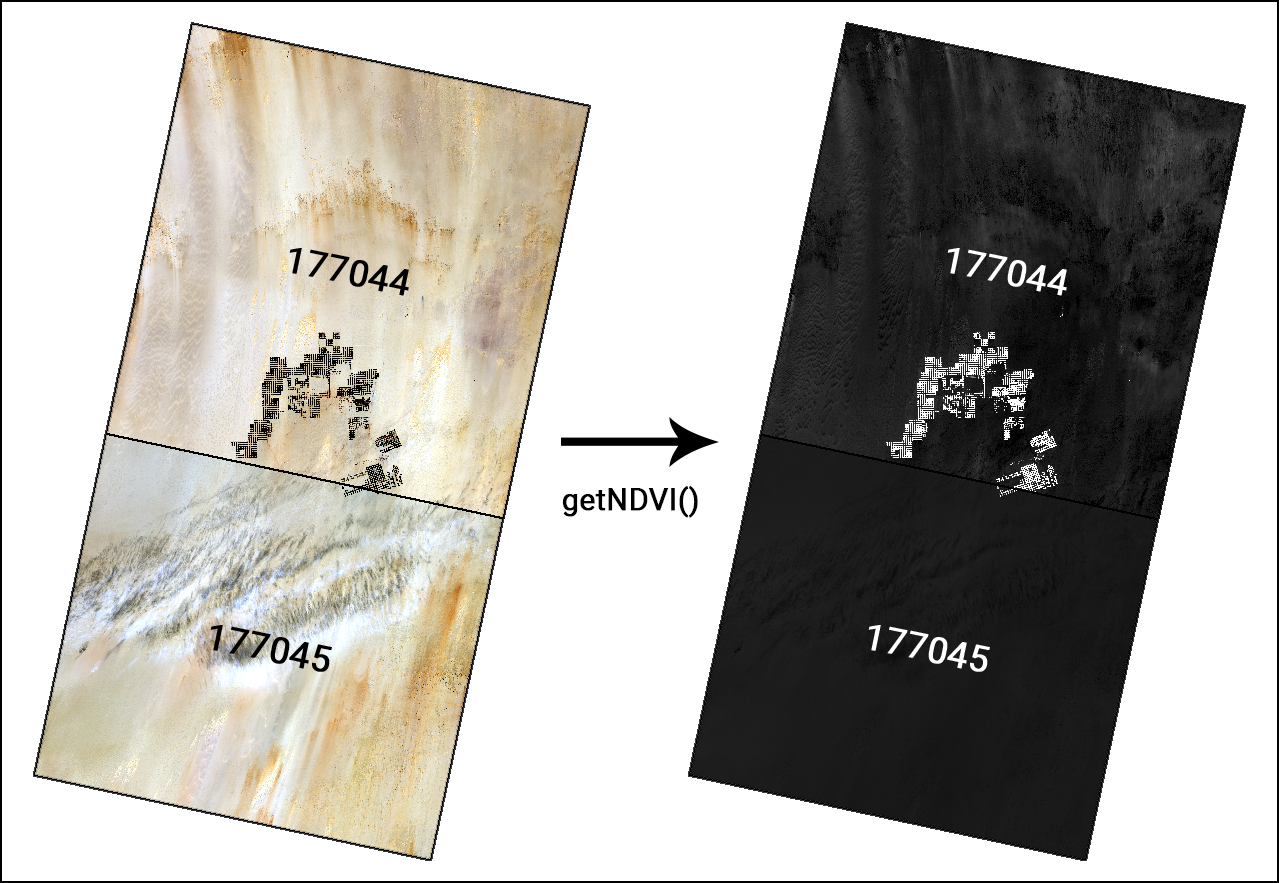
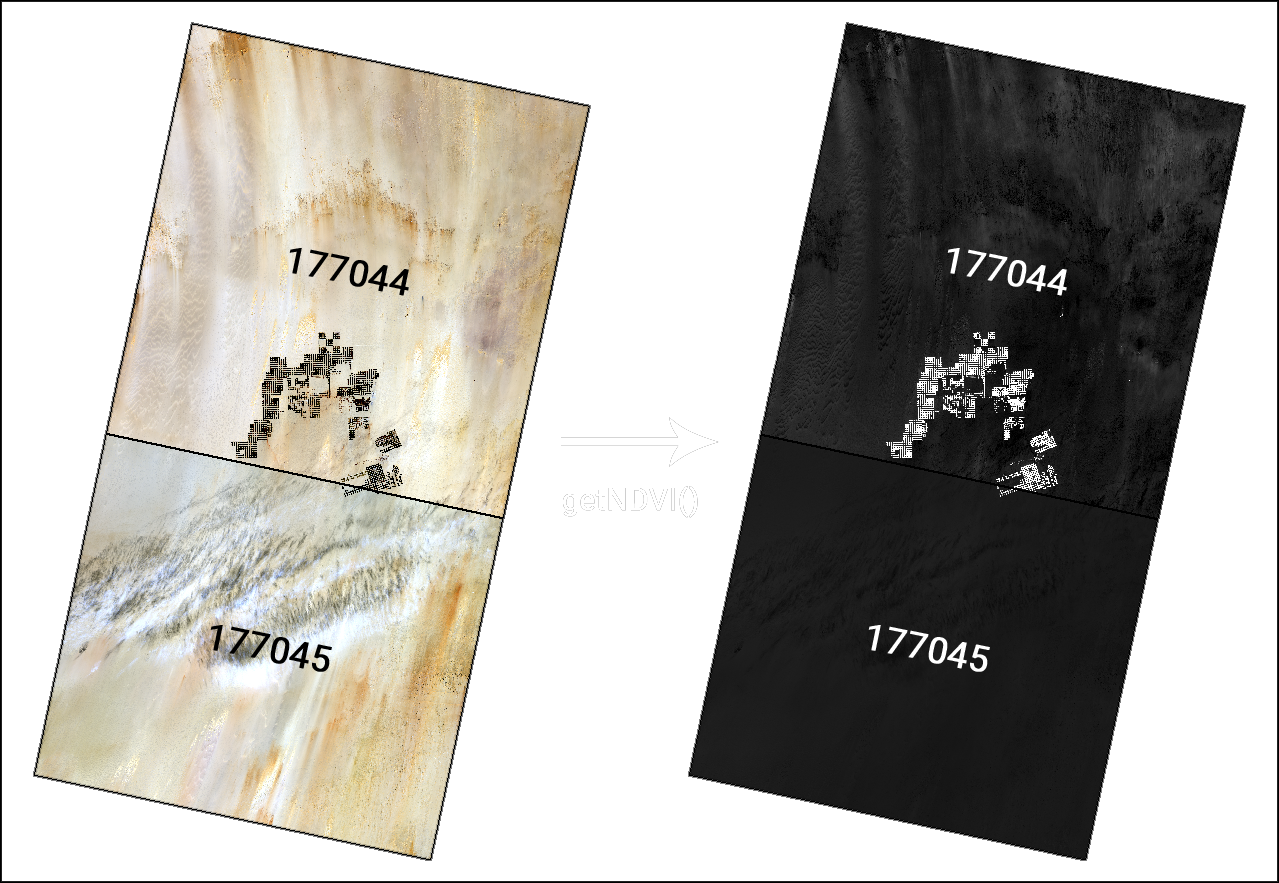
adjust readme - give project context

Changed region(s): [[0.4269, 0.4587, 0.5794, 0.5198], [0.4269, 0.5504, 0.5489, 0.581]]

diff --git a/README.md b/README.md
@@ -1,123 +1,112 @@
 LCquickVieweR
 ---
-The remote sensing R package `LCquickVieweR` makes land-use change visible by creating false color images. 
-The methodical approach is a combination of Image Differencing and Multi Temporal Stacking using NDVI.
-This way change is coded by color. All processing steps are automatized.
+`LCquickVieweR` is an R package that makes land-use/land-cover (LULC) change visible by producing false color composites from multi-date satellite imagery. It combines Image Differencing and Multi-Temporal NDVI Stacking to encode change as color — no manual classification required.
 
-At this stage [0.0.1] some functions are customized for my latest project, but can be adjusted easily.
-`LCquickVieweR` was built during my remote sensing major at University Würzburg.
+## Background
 
-<p align="center"><img width="50%" src="https://github.com/kluter/LCquickVieweR/blob/master/img/result1.gif"></p>
-<p align="center"><sub>Animation 1: LCquickVieweR final product.</sub></p>
+Developed as a seminar submission for the **[EAGLE MSc Program](https://eagle-science.org)**.
 
+The methodology was first applied in a BSc thesis in Physical Geography at **Goethe-Universität Frankfurt am Main**:
+
+> **Fernerkundliche Identifizierung und Analyse der Landnutzungsänderung im Umland von Taroudannt, Marokko**
+>
+> Institut für Physische Geographie · 2013  
+> Erstgutachter: Dr. Irene Marzolff
+
+That study documented large-scale LULC change driven by groundwater extraction for export-oriented fruit agriculture in the surroundings of Taroudannt, Morocco.
+
+## Study Area & Results
+
+The package is demonstrated on an agricultural region in **Egypt** (22°28'N 28°29'E), analyzed across seven consecutive periods between **1999 and 2018** using Landsat 5 and Landsat 8 imagery. The dominant pattern observed is rapid agricultural expansion sustained by groundwater extraction.
+
+<table>
+<tr>
+<td width="60%">
+<img width="100%" src="https://github.com/kluter/LCquickVieweR/blob/master/img/result1.gif">
+<br><sub>Animation 1: LCquickVieweR final product — Egypt study area, 1999–2018.</sub>
+</td>
+<td width="40%" valign="top">
+
+**Color Code**
+
+| Color | Meaning |
+|---|---|
+| Cyan | Vegetation gained |
+| Reddish | Vegetation lost |
+| Yellowish / Purple | Little or no change |
+
+Color intensity reflects NDVI magnitude in both time steps.
+
+</td>
+</tr>
+</table>
+
+<p align="center"><img width="50%" src="https://github.com/kluter/LCquickVieweR/blob/master/img/result2.gif"></p>
+<p align="center"><sub>Animation 2: LCquickVieweR final product — Egypt study area, 1999–2018.</sub></p>
 
 ## Installation
-Install `LCquickVieweR` directly from github by using `devtools`.
+Install `LCquickVieweR` directly from GitHub using `devtools`:
 ``` r
 devtools::install_github("kluter/LCquickVieweR")
 ```
 
-## Functions
-`LCquickVieweR` provides a small set of functions:
-
-Adjusting study area:
-* `mergeThis()` - [0.0.1] merges two tiles into a single image for every dataset in a committed directory. 
-Including more tiles is possible by adjusting the referenced `raster::mosaic()` function.
-* `subsetThis()` - crops every raster image in a committed directory to the extend of any shapefile.
-
-Image Differencing and Multi Temporal Stacking using NDVI:
-* `getNDVI()` - computes the NDVI for every Landsat5 and Landsat8 scene in a committed directory.
-    - `NDVI()` - basic ratio computation using Red & NIR bands, see [NDVI](https://en.wikipedia.org/wiki/Normalized_difference_vegetation_index). 
-    - `Landsat5_NDVI()` - looks for the right Landsat5 bands for NDVI computation.
-    - `Landsat8_NDVI()` - looks for the right Landsat8 bands for NDVI computation.
-* `getDeltaNDVI()` - creates image subtractions of every successive pair within a directory. The order of subtractions is the order of the committed directory.
-    - `deltaNDVI()` - raster calculation: `deltaNDVI()` subtracts NDVI datasets from each other. The prior dataset is subtracted from the later.
-* `stackTime()` - creates the final product by stacking the prior, later, and delta datasets into their respective RGB channels.
-
-Bonus functions that make RStudio life easier:
-
-* `packageChecker()` - takes a list of packageNames and checks it against the internal library. If a package is missing, it will download, install and activate it. If a package is already installed but old, it will be updated and activated. If a package is already installed, it will be activated.
-* `set.wd()`- setting a working directory by pasting a windows path directly, without changing any single \backslash.
-    - `backslashConverter()` - converts \ into /.
-
 ## Get Started
-A quick demonstration of what `LCquickVieweR` can do:
 
-Put all your downloaded satellite images into one folder. Up to this point the automatization works only for Landsat 5 and 8 scenes. Bands from other satellites need to be addressed manually.
+Put all downloaded Landsat scenes into one folder, then:
 
-Presetting:
 ``` r
-# Load packages
+# Load dependencies
 packages <- c("raster", "sp", "RStoolbox", "rgdal")
 LCquickVieweR::packageChecker(packages)
 
-# set your working directory to your sat-image folder
+# Set working directory (paste Windows path directly)
 set.wd()
 
-# create subfolders for temporal datasets and results
-directories <- c("result_NDVIs", "result_mosaic", "result_subset", "result_deltaNDVIs", "result_falseColor")
+# Create output folders
+directories <- c("result_NDVIs", "result_mosaic", "result_subset", 
+                 "result_deltaNDVIs", "result_falseColor")
 for(i in 1:length(directories)){
   dir.create(directories[i])
-  }
-  
-# create the main list of your working directory
+}
+
 dirList <- list.files()
 ```
 
-Main program:
 ``` r
-# creating NDVIs for all downloaded data
+# Compute NDVI for all scenes
 getNDVI(dirList)
 ```
 <p align="center"><img width="50%" src="https://github.com/kluter/LCquickVieweR/blob/master/img/img1.png"></p>
 <p align="center"><sub>Figure 1: Converting all datasets into NDVI datasets.</sub></p>
 
 ``` r
-# filtering for needed tiles
+# Mosaic tiles and crop to study area
 imageTile1 <- list.files("result_NDVIs/", pattern = "177044")
 imageTile2 <- list.files("result_NDVIs/", pattern = "177045")
-
-# combining tiles for full study area
 mergeThis(imageTile1, imageTile2)
 
-#--------------------------------------------------------------------------------#
-# loading extent of study area -> shp-file
 studyArea <- readOGR(dsn = "_vector_data", layer = "studyArea")
-# addressing all merged images
 allMosaics <- list.files("result_mosaic/")
-
-# creating subset from all mosaics
 subsetThis(allMosaics, studyArea)
 ```
 <p align="center"><img width="40%" src="https://github.com/kluter/LCquickVieweR/blob/master/img/img2.png"></p>
 <p align="center"><sub>Figure 2: Merged and cropped study area.</sub></p>
 
 ``` r
-# getting all subsets into a list
+# Compute delta NDVI and build final composite
 allSubsets <- list.files("result_subset/")
-
-# image differencing deltaNDVI()
 getDeltaNDVI(allSubsets)
 
-#--------------------------------------------------------------------------------#
-# collecting preprocessed datasets for final product
 delta <- list.files("result_deltaNDVIs/")
-ndvi <- list.files("result_subset/")
-
-# creating main land-use change product
+ndvi  <- list.files("result_subset/")
 stackTime(ndvi, delta)
 ```
 <p align="center"><img width="60%" src="https://github.com/kluter/LCquickVieweR/blob/master/img/img3.1.png"></p>
-<p align="center"><sub>Figure 3: Assembling the final product.</sub></p>
+<p align="center"><sub>Figure 3: Assembling the final composite.</sub></p>
 
-## colorCode
-Once the processing is done, your results will look pretty much like the scenes in the GIFs. Regardless of where that scene is from, the colorCode will still be the same:
+## Note
 
-* reddish colors: lost areas
-* cyan colors: gained areas
-* yellowish and purple areas: areas without change 
-
-In general color depends on NDVI intensity in both timesteps.
-
-<p align="center"><img width="50%" src="https://github.com/kluter/LCquickVieweR/blob/master/img/result2.gif"></p>
-<p align="center"><sub>Animation 2: LCquickVieweR final product.</sub></p>
+Written in 2018 for Landsat 5 and 8. The R libraries used (`raster`, `rgdal`, 
+`sp`) have since been largely superseded by `terra` and `sf`. The same 
+workflow today would more likely be implemented in Python using `rasterio`, 
+`xarray`, or `stackstac`.
